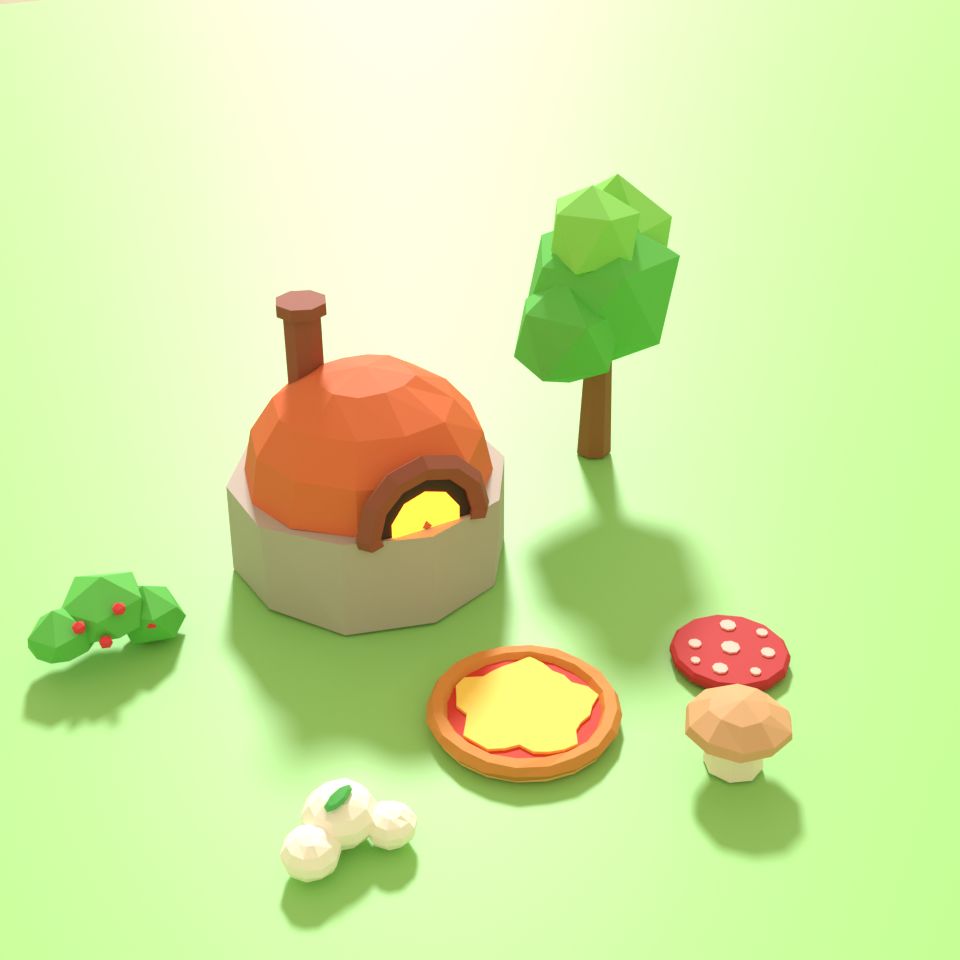
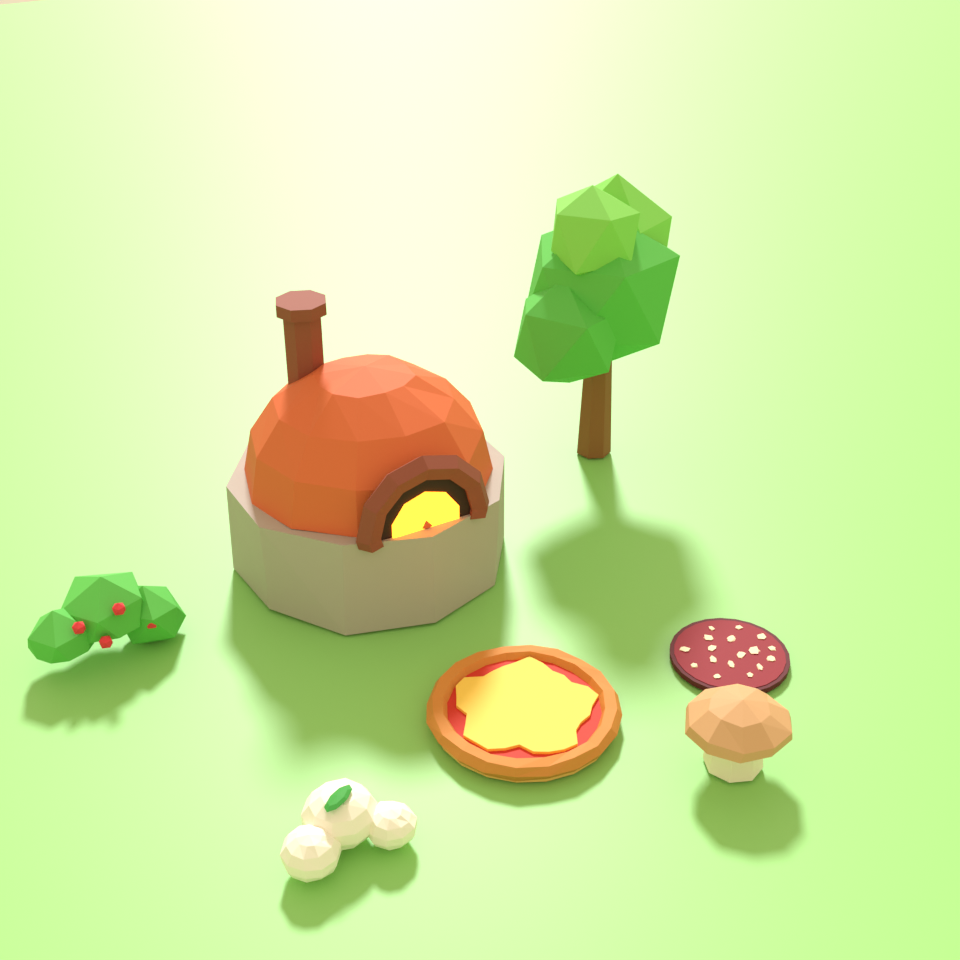
Rebuild salami as flat wine-red slice and brighten the volcano world (#24)
New Blender salami (thin casing rim, irregular cream fat bits) with previews,
lighter volcano lighting, haze, ground and rock colours, more glowing lava
pools and cracks, and a WorldLooks spec guarding volcano readability.

Claude-Session: https://claude.ai/code/session_01ETPm5SvAouWWayLZ8HR3pr

Changed region(s): [[0.6875, 0.625, 0.8438, 0.7188]]

diff --git a/tools/blender/build_models.py b/tools/blender/build_models.py
@@ -34,8 +34,10 @@ def rgb(r, g, b):
 
 # Part name -> colour. Same values as ModelLibrary.PALETTE (Roblox side).
 COLORS = {
-    "Meat": (190, 38, 42),
-    "Fat": (255, 196, 186),
+    # Salami (#24): flat, wine red, small irregular cream fat bits, thin darker casing.
+    "Meat": (150, 28, 46),
+    "Fat": (246, 228, 196),
+    "Casing": (98, 22, 34),
     "Cap": (214, 168, 120),
     "Stem": (252, 242, 222),
     "Cheese": (255, 250, 236),
@@ -70,9 +72,10 @@ COLORS = {
     "Ice": (150, 214, 255),
     "Coal": (42, 42, 48),
     "Carrot": (255, 140, 40),
-    "Basalt": (78, 62, 60),
-    "Lava": (255, 112, 30),
-    "Charcoal": (58, 46, 46),
+    # Volcano (#24): lighter rock so the world stays readable, lava stays hot.
+    "Basalt": (112, 86, 80),
+    "Lava": (255, 128, 36),
+    "Charcoal": (88, 66, 60),
     "CandyPink": (255, 92, 162),
     "CandyWhite": (255, 246, 250),
     "CandyRed": (232, 42, 62),
@@ -199,17 +202,32 @@ def jitter(obj, amount, seed):
 
 
 def build_salami():
-    meat = cylinder(1.0, 0.22, 14, loc=(0, 0, 0.11))
-    bpy.ops.object.modifier_add(type="BEVEL")
-    meat.modifiers["Bevel"].width = 0.06
-    meat.modifiers["Bevel"].segments = 1
-    bpy.ops.object.modifier_apply(modifier="Bevel")
+    # A thin slice: darker casing ring, wine-red meat slightly on top of it (so the
+    # casing shows as a thin rim from above) and small flat, irregular fat bits.
+    casing = cylinder(1.0, 0.1, 24, loc=(0, 0, 0.05))
+    finish(casing, "Casing")
+    meat = cylinder(0.93, 0.1, 24, loc=(0, 0, 0.06))
     finish(meat, "Meat")
-    dots = []
-    spots = [(0.0, 0.0, 0.16), (0.5, 0.35, 0.13), (-0.45, 0.42, 0.12), (-0.35, -0.5, 0.14), (0.45, -0.38, 0.11), (0.05, 0.7, 0.09), (0.72, -0.02, 0.08), (-0.72, -0.05, 0.1)]
-    for x, y, r in spots:
-        dots.append(cylinder(r, 0.04, 8, loc=(x, y, 0.235)))
-    join(dots, "Fat")
+    import random
+
+    rnd = random.Random(24)
+    spots = []
+    while len(spots) < 17:
+        a = rnd.uniform(0, 2 * math.pi)
+        d = 0.78 * math.sqrt(rnd.uniform(0.0, 1.0))
+        x, y = math.cos(a) * d, math.sin(a) * d
+        if all(math.hypot(x - sx, y - sy) > 0.27 for sx, sy, _ in spots):
+            spots.append((x, y, rnd.uniform(0.05, 0.1)))
+    bits = []
+    for i, (x, y, r) in enumerate(spots):
+        bit = cylinder(r, 0.02, rnd.choice((5, 6, 7)), loc=(x, y, 0.115), rot=(0, 0, rnd.uniform(0, math.pi)))
+        bit.scale = (rnd.uniform(0.75, 1.3), rnd.uniform(0.7, 1.15), 1)
+        applied(bit)
+        for v in bit.data.vertices:
+            v.co.x += rnd.uniform(-0.25, 0.25) * r
+            v.co.y += rnd.uniform(-0.25, 0.25) * r
+        bits.append(bit)
+    join(bits, "Fat")
 
 
 def build_mushroom():
@@ -651,7 +669,7 @@ WORLD_DECO = {
     "Farm": (["Barn", "HayBale", "Sunflower", "Fence", "Tree"], (255, 232, 190), (196, 170, 100)),
     "Beach": (["PalmTree", "BeachUmbrella", "BeachRock"], (190, 236, 255), (240, 220, 160)),
     "Icebergs": (["SnowPine", "IceCrystal", "Snowman"], (214, 236, 255), (225, 240, 250)),
-    "Volcano": (["LavaMountain", "LavaRock", "DeadTree"], (110, 50, 45), (70, 55, 55)),
+    "Volcano": (["LavaMountain", "LavaRock", "DeadTree"], (255, 170, 120), (128, 96, 86)),
     "CandyLand": (["Lollipop", "CandyCane", "Cupcake"], (255, 224, 240), (255, 190, 220)),
     "Space": (["Planet", "Rocket", "SpaceCrystal", "MoonRock"], (30, 30, 60), (150, 150, 165)),
 }
@@ -767,6 +785,27 @@ def overview():
     setup_render(objs, os.path.join(PREVIEW_DIR, "Overview.png"), size=960, distance=1.95)
 
 
+def salami_check():
+    """Salami slices on the grass and on the pizza, to judge readability (#24)."""
+    reset_scene()
+    build_pizza()
+    for x, y, r in ((-0.35, 0.2, 0.0), (0.3, 0.32, 1.1), (0.05, -0.38, 2.3)):
+        before = set(bpy.context.scene.objects)
+        build_salami()
+        for o in set(bpy.context.scene.objects) - before:
+            o.scale = (0.26, 0.26, 0.26)
+            o.rotation_euler = (0, 0, r)
+            o.location = Vector((x, y, 0.21)) + Vector(o.location) * 0.26
+    for x, y in ((1.5, 0.6), (1.7, -0.5)):
+        before = set(bpy.context.scene.objects)
+        build_salami()
+        for o in set(bpy.context.scene.objects) - before:
+            o.scale = (0.4, 0.4, 0.4)
+            o.location = Vector((x, y, 0)) + Vector(o.location) * 0.4
+    objs = model_objects()
+    setup_render(objs, os.path.join(PREVIEW_DIR, "SalamiCheck.png"), size=960, distance=1.7)
+
+
 def world_overview(world):
     """All deco models of one world side by side (largest first, at the back)."""
     reset_scene()
@@ -787,12 +826,14 @@ def world_overview(world):
 
 if __name__ == "__main__":
     args = sys.argv[1:]
-    names = [a for a in args if a in MODELS or a == "Overview" or a in WORLD_DECO]
+    names = [a for a in args if a in MODELS or a in ("Overview", "SalamiCheck") or a in WORLD_DECO]
     if not names:
-        names = list(MODELS) + ["Overview"] + list(WORLD_DECO)
+        names = list(MODELS) + ["Overview", "SalamiCheck"] + list(WORLD_DECO)
     for n in names:
         if n == "Overview":
             overview()
+        elif n == "SalamiCheck":
+            salami_check()
         elif n in WORLD_DECO:
             world_overview(n)
         else:

diff --git a/docs/pc-todo.md b/docs/pc-todo.md
@@ -670,3 +670,25 @@ Verwaister Lock (Server stirbt ohne Freigabe):
 Optional (veröffentlichtes Spiel, 2 Server): Spieler wechselt per Teleport/Neubeitritt schnell den Server → auf dem neuen Server ist der zuletzt gespielte Stand da, nie ein älterer. Im Server-Log des neuen Servers ggf. kurz `… belegt, warte …`, dann normales Laden.
 
 Fehler gefunden? Beheben, `lune run test` erneut ausführen, hier abhaken, committen, pushen.
+
+## #24 Salami-Modell und hellerer Vulkan
+
+Vorher: `git pull`, `lune run test` → alle grün (u. a. `WorldLooks` „keeps the volcano readable / fiery“). Vorschau: `assets/previews/Salami.png`, auf Pizza und Boden: `assets/previews/SalamiCheck.png`, Vulkan-Deko: `assets/previews/World_Volcano.png`.
+
+Ohne Neu-Import läuft alles weiter: Die alte Salami wird schon in den neuen Farben (weinrot, cremefarbene Fettaugen) eingefärbt, weil das Spiel nach Teilnamen färbt. Vulkan-Licht, hellerer Boden/Felsen und die zusätzlichen Lava-Akzente brauchen keinen Import.
+
+**1. Neue Salami importieren** (`assets/models/Salami.fbx`, Teile `Casing`, `Meat`, `Fat`):
+
+- [ ] In **ReplicatedStorage → GameAssets → Models** das alte Model `Salami` löschen.
+- [ ] **Home → Import 3D** → `assets/models/Salami.fbx` → *Rig Type* = **No Rig**, *Insert Using Scene Position* = aus → **Import**. Das neue Model nach `GameAssets/Models` ziehen, Name exakt `Salami` (Teile dürfen `Meat.001` usw. heißen).
+- [ ] Place speichern und **File → Publish to Roblox**.
+
+**2. Test** (Rojo verbunden, **Play**, 1 Spieler):
+
+- [ ] Output ohne rote Fehler.
+- [ ] Welt 1: Salami ist eine flache, weinrote Scheibe mit kleinen, unregelmäßigen cremefarbenen Fettstücken und dünnem dunklem Rand – kein Fliegenpilz mehr. Auf dem grünen Boden gut zu sehen und anklickbar.
+- [ ] Salami sammeln: Auf der Hand-Pizza hebt sie sich klar von Soße (hellrot) und Käse (gelb) ab.
+- [ ] Vulkan (Münz-Tipp aus #11): warmes, orangefarbenes Licht von oben, hellerer Basalt-Boden, nur leichter orangefarbener Dunst – Stationen, Schilder, Beläge (Chili, Peperoni, Jalapeño) und Wege gut erkennbar, auch in der Ferne. Die feurige Stimmung bleibt (orange Wolken, Bloom auf der Lava).
+- [ ] Lava-Akzente: 8 leuchtende Lava-Pools und 6 Lava-Risse rund um das Belagfeld, mit warmem Licht. Keiner liegt im Belagfeld, vor Ofen/Shop/Ei/Portal, bei Telefon/Lieferwagen oder im großen Vulkan (hinten links).
+- [ ] Nichts ist überstrahlt. Falls zu hell/zu dunkel: in `src/shared/WorldLooks.luau` (Eintrag `Volcano`) `brightness` bzw. `ambient`/`outdoorAmbient` anpassen und hier notieren.
+- [ ] Bildrate im Vulkan bleibt flüssig (14 zusätzliche Lichter); auf dem Handy-Emulator kurz prüfen.
